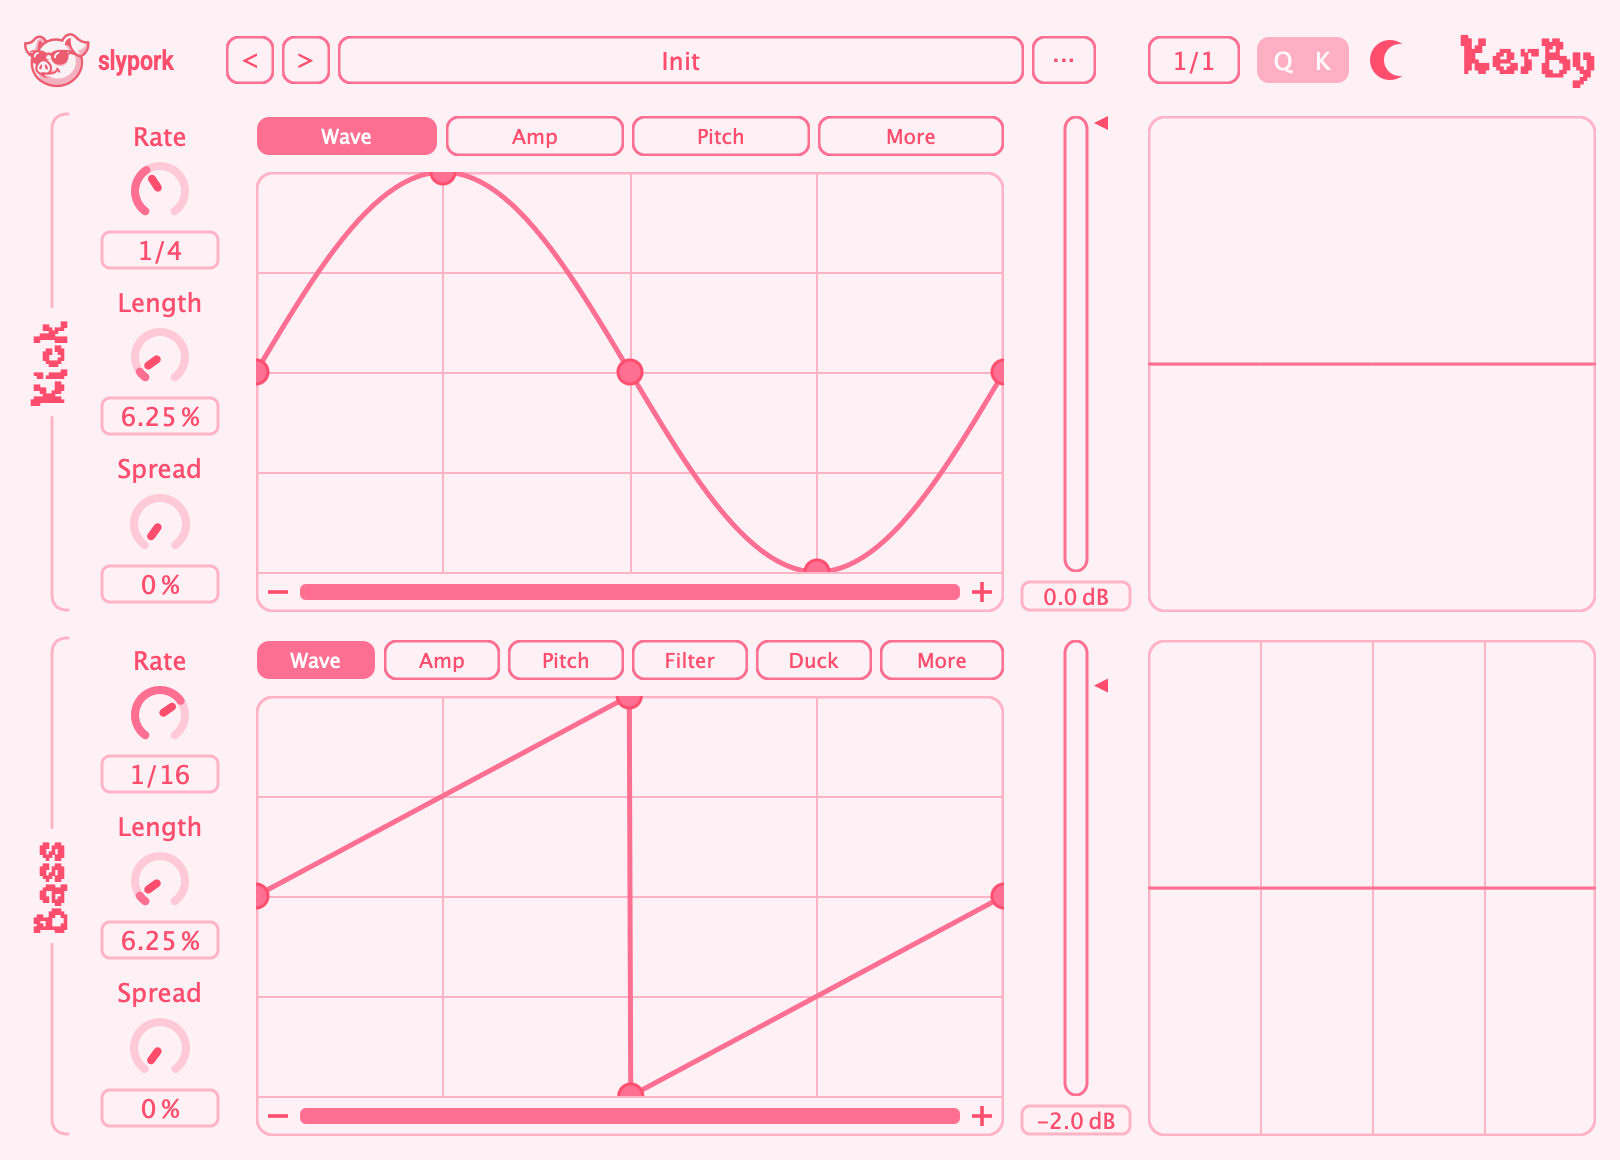
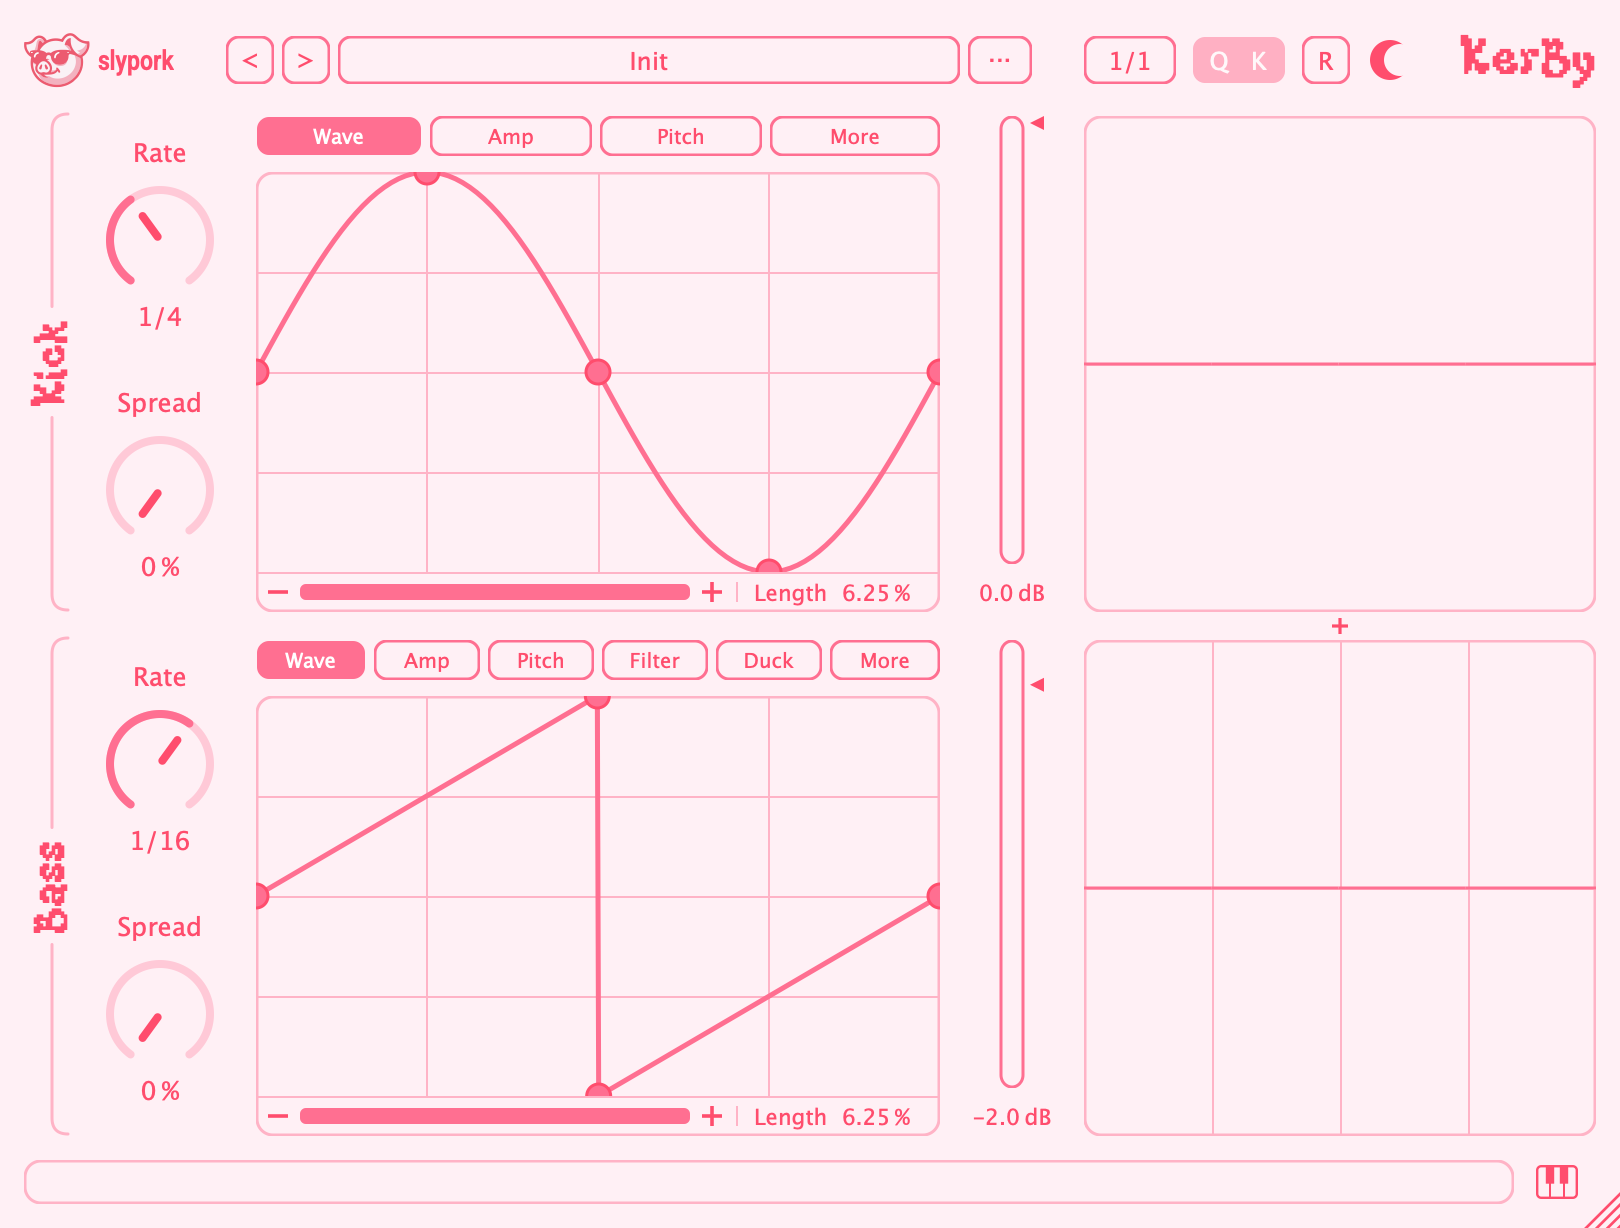
KerBy: bring the write-up and the screenshots up to the current build
The page had drifted from the plugin in three ways.

The duck was described as playing out over a fixed quarter note, which
BASS_DUCK_RATE makes false - it is now a note division you set, still its own
rather than the Kick's, which is what keeps it behaving the same at any Kick
rate. The Kick's reverb riding that same curve is stated too, since it is the
distinctive half of the reverb and costs a clause.

Rates can run free in Hz, which the clock paragraph didn't say. Reworded rather
than inserted, because "free-runs" was already spent on the Kick-restart clause
in the same sentence.

A fifth "How it works" row covers the wheels and R, which is the through-line of
everything added since the write-up - the page otherwise reads as a strictly
synced generator. The tempo wheel is described as a gesture control for stumbles
and glitches, not as a way to play half time, which is what the Rate knob is
for. The half-time claim would also have needed a Quantize qualifier it didn't
have.

The screenshots were from an August 4th build: no bottom bar, no keyboard, no
wheels, no R, no combined-scope +, and Length still in the knob column, so the
main visual contradicted the copy beside it. They are now generated by
scripts/screenshots.sh in the plugin repo, which release.sh runs on every drop,
so this is the last time they are updated by hand. The <img> dimensions follow
the editor's design size at 2x (1620x1228, up from 1620x1160 before the bottom
[…]

diff --git a/kerby/index.html b/kerby/index.html
@@ -81,7 +81,7 @@
                 <div class="visual-container" id="visualContainer">
                     <div class="mx-2 md:mx-4 my-4 md:my-8">
                         <p class="text-lg font-light">
-                            KerBy is a one-stop shop for kick and bass generation I've been building. Two voices, with
+                            KerBy is a one-stop shop for kick and bass synthesis I've been building. Two voices, with
                             an opinion about how they relate: the Kick is the backbone, the Bass gets ducked out of its
                             way, and neither ends up off the grid unless you ask it to. It's set up for kicks and
                             basslines, but can be used for much more.
@@ -102,11 +102,11 @@
             </article>
             <section class="visual-container-bottom" id="kerbyDetail">
                 <div class="mx-2 md:mx-4 my-4 md:my-8">
-                    <img src="../assets/images/software/KerBy_lightmode.png" width="1620" height="1160"
-                        alt="The KerBy plugin window: a Kick row above a Bass row, each with Rate, Length and Spread knobs, envelope tabs, a freeform curve editor, a level fader and a bar-synced scope."
+                    <img src="../assets/images/software/KerBy_lightmode.png" width="1620" height="1228"
+                        alt="The KerBy plugin window: a Kick row above a Bass row, each with Rate and Spread knobs, envelope tabs, a freeform curve editor showing its drawn waveform, a level fader and a bar-synced scope."
                         class="dark:hidden w-full rounded-xl border border-kerbyPink modal-trigger cursor-pointer">
-                    <img src="../assets/images/software/KerBy_darkmode.png" width="1620" height="1159" loading="lazy"
-                        alt="The KerBy plugin window in its dark theme: a Kick row above a Bass row, each with Rate, Length and Spread knobs, envelope tabs, a freeform curve editor, a level fader and a bar-synced scope."
+                    <img src="../assets/images/software/KerBy_darkmode.png" width="1620" height="1228" loading="lazy"
+                        alt="The KerBy plugin window in its dark theme: a Kick row above a Bass row, each with Rate and Spread knobs, envelope tabs, a freeform curve editor showing its drawn waveform, a level fader and a bar-synced scope."
                         class="hidden dark:block w-full rounded-xl border border-kerbyDarkAccent modal-trigger cursor-pointer">
 
                     <h2 class="text-xl pt-8">How it works:</h2>
@@ -114,9 +114,10 @@
                         <div class="pt-4 flex flex-col fig-row:flex-row fig-row:items-center gap-3 fig-row:gap-6">
                             <p class="fig-row:flex-1">
                                 <span class="text-kerbyRed dark:text-kerbyDarkText">Two voices, one clock.</span>
-                                Each runs at its own division, and the Bass restarts on every Kick pulse so the two
-                                read as one figure — switch that off and it free-runs. Clip length counts too: a dotted
-                                Kick under a one-bar clip resets each bar instead of drifting across them.
+                                Each runs at its own rate — a note division, or free in Hz — and the Bass restarts
+                                on every Kick pulse so the two read as one figure. Switch that off for a polyrhythm.
+                                Clip length counts too: a dotted Kick under a one-bar clip resets each bar instead of
+                                drifting across them.
                             </p>
                             <svg class="kerby-fig w-full fig-row:w-72 fig-row:shrink-0" viewBox="0 0 320 150"
                                 aria-hidden="true">
@@ -164,9 +165,10 @@
                             <p class="fig-row:flex-1">
                                 <span class="text-kerbyRed dark:text-kerbyDarkText">The Bass is ducked by the
                                     Kick.</span>
-                                The duck is a curve you draw, applied over a fixed quarter note after each Kick pulse,
-                                so
-                                it behaves the same at any Kick rate. A Duck amount takes it from off to full.
+                                The duck is a curve you draw, played out after each Kick pulse over a note
+                                division you set — its own, not the Kick's, so it behaves the same at any Kick rate.
+                                A Duck amount takes it from off to full. The Kick's reverb rides the same curve, so
+                                the tail pumps with it.
                             </p>
                             <svg class="kerby-fig w-full fig-row:w-72 fig-row:shrink-0 fig-row:order-first"
                                 viewBox="0 0 320 150" aria-hidden="true">
@@ -252,6 +254,43 @@
                                 <circle cx="230" cy="75" r="6" fill="var(--kerby-strong)" />
                             </svg>
                         </div>
+                        <div class="pt-6 flex flex-col fig-row:flex-row fig-row:items-center gap-3 fig-row:gap-6">
+                            <p class="fig-row:flex-1">
+                                <span class="text-kerbyRed dark:text-kerbyDarkText">Made to be played.</span>
+                                The keyboard has a wheel at each end — one bends the pitch, the other bends the clock.
+                                Bend the clock mid-phrase for a stumble or a glitch, and with Quantize on, letting
+                                go walks the pattern back onto the grid. <strong>R</strong> plays the output backwards,
+                                a Kick period at a time, and both wheels take an automation lane or a hardware knob.
+                            </p>
+                            <svg class="kerby-fig w-full fig-row:w-72 fig-row:shrink-0" viewBox="0 0 320 150"
+                                aria-hidden="true">
+                                <rect x="1" y="1" width="318" height="148" rx="10" fill="var(--kerby-panel)"
+                                    stroke="var(--kerby-accent)" stroke-width="1" />
+                                <!-- the host's grid -->
+                                <g stroke="var(--kerby-grid)" stroke-width="1">
+                                    <line x1="20" y1="20" x2="20" y2="130" />
+                                    <line x1="90" y1="20" x2="90" y2="130" />
+                                    <line x1="160" y1="20" x2="160" y2="130" />
+                                    <line x1="230" y1="20" x2="230" y2="130" />
+                                    <line x1="300" y1="20" x2="300" y2="130" />
+                                </g>
+                                <!-- on the grid, and then bent off it as the wheel goes down -->
+                                <g fill="var(--kerby-accent)">
+                                    <rect x="18" y="30" width="4" height="32" rx="2" />
+                                    <rect x="88" y="30" width="4" height="32" rx="2" />
+                                    <rect x="158" y="30" width="4" height="32" rx="2" />
+                                    <rect x="228" y="30" width="4" height="32" rx="2" />
+                                    <rect x="298" y="30" width="4" height="32" rx="2" />
+                                </g>
+                                <g fill="var(--kerby-strong)">
+                                    <rect x="18" y="88" width="4" height="32" rx="2" />
+                                    <rect x="74" y="88" width="4" height="32" rx="2" />
+                                    <rect x="138" y="88" width="4" height="32" rx="2" />
+                                    <rect x="210" y="88" width="4" height="32" rx="2" />
+                                    <rect x="298" y="88" width="4" height="32" rx="2" />
+                                </g>
+                            </svg>
+                        </div>
                     </div>
 
                     <h2 class="text-xl pt-8">Where it's at:</h2>
@@ -284,56 +323,82 @@
                          never the attribute. -->
                     <!-- data-kerby-changelog:start -->
                     <div class="text-lg font-light">
-                        <h3 class="text-lg pt-4"><span class="text-kerbyRed dark:text-kerbyDarkText">v0.3.0</span><span class="text-base opacity-75"> &middot; 2026-08-18</span></h3>
+                        <h3 class="text-lg pt-4"><span class="text-kerbyRed dark:text-kerbyDarkText">v0.3.0</span><span
+                                class="text-base opacity-75"> &middot; 2026-08-18</span></h3>
                         <h4 class="text-base pt-3 opacity-75">Added</h4>
                         <ul class="list-disc pl-5 pt-1 space-y-2">
-                            <li><strong>A tempo wheel</strong>, at the right-hand end of the keyboard. Right-click for range.</li>
-                            <li><strong>Reverb on the Kick</strong> — Amt, LP and Size on its More tab, ducked by the Bass's Sidechain curve.</li>
-                            <li><strong>Reverse</strong>, the new <strong>R</strong> in the header. It records one Kick rate period and plays it back reversed.</li>
-                            <li><strong>MIDI output — one short note per Kick pulse</strong>, for sidechaining anything to the Kick. In Live this is VST3 only; other DAWs untested.</li>
-                            <li><strong>A combined scope.</strong> The <strong>+</strong> between the two scopes merges them into one panel showing the summed output.</li>
-                            <li><strong>The pitch and tempo wheels can be automated or mapped to hardware.</strong> Map both to one macro for a tape stop.</li>
+                            <li><strong>A tempo wheel</strong>, at the right-hand end of the keyboard. Right-click for
+                                range.</li>
+                            <li><strong>Reverb on the Kick</strong> — Amt, LP and Size on its More tab, ducked by the
+                                Bass's Sidechain curve.</li>
+                            <li><strong>Reverse</strong>, the new <strong>R</strong> in the header. It records one Kick
+                                rate period and plays it back reversed.</li>
+                            <li><strong>MIDI output — one short note per Kick pulse</strong>, for sidechaining anything
+                                to the Kick. In Live this is VST3 only; other DAWs untested.</li>
+                            <li><strong>A combined scope.</strong> The <strong>+</strong> between the two scopes merges
+                                them into one panel showing the summed output.</li>
+                            <li><strong>The pitch and tempo wheels can be automated or mapped to hardware.</strong> Map
+                                both to one macro for a tape stop.</li>
                         </ul>
                         <h4 class="text-base pt-3 opacity-75">Changed</h4>
                         <ul class="list-disc pl-5 pt-1 space-y-2">
-                            <li><strong>The scope gridlines sit on real pulses</strong>, which fixes dotted rates and unquantized notes. With Restart on Kick on, the Bass's lines start again on each Kick pulse, so you can see what it's doing.</li>
-                            <li><strong>The Wave tab dims the part of the cycle a pulse never reaches</strong> — a low note under a fast Rate doesn't get all the way round the drawn waveform.</li>
-                            <li><strong>Muting the Bass no longer greys out its Duck tab</strong> while that curve is still shaping the Kick's reverb.</li>
+                            <li><strong>The scope gridlines sit on real pulses</strong>, which fixes dotted rates and
+                                unquantized notes. With Restart on Kick on, the Bass's lines start again on each Kick
+                                pulse, so you can see what it's doing.</li>
+                            <li><strong>The Wave tab dims the part of the cycle a pulse never reaches</strong> — a low
+                                note under a fast Rate doesn't get all the way round the drawn waveform.</li>
+                            <li><strong>Muting the Bass no longer greys out its Duck tab</strong> while that curve is
+                                still shaping the Kick's reverb.</li>
                             <li><strong>A level meter's clipping cap grows with the overshoot.</strong></li>
-                            <li><strong>The logo button lists every shortcut and mouse gesture in the plugin.</strong></li>
+                            <li><strong>The logo button lists every shortcut and mouse gesture in the plugin.</strong>
+                            </li>
                             <li><strong>The scope grows with the window.</strong></li>
                         </ul>
                         <h4 class="text-base pt-3 opacity-75">Fixed</h4>
                         <ul class="list-disc pl-5 pt-1 space-y-2">
-                            <li><strong>Hovering an envelope point takes the same colour as hovering a line.</strong></li>
+                            <li><strong>Hovering an envelope point takes the same colour as hovering a line.</strong>
+                            </li>
                         </ul>
                         <details class="pt-6">
                             <summary class="text-base font-light cursor-pointer">Earlier versions</summary>
-                            <h3 class="text-lg pt-4"><span class="text-kerbyRed dark:text-kerbyDarkText">v0.2.1</span><span class="text-base opacity-75"> &middot; 2026-08-13</span></h3>
+                            <h3 class="text-lg pt-4"><span
+                                    class="text-kerbyRed dark:text-kerbyDarkText">v0.2.1</span><span
+                                    class="text-base opacity-75"> &middot; 2026-08-13</span></h3>
                             <h4 class="text-base pt-3 opacity-75">Added</h4>
                             <ul class="list-disc pl-5 pt-1 space-y-2">
-                                <li><strong>Free-running rate.</strong> Each voice's Rate can run in Hz instead of a note division — right-click the Rate knob to switch.</li>
+                                <li><strong>Free-running rate.</strong> Each voice's Rate can run in Hz instead of a
+                                    note division — right-click the Rate knob to switch.</li>
                             </ul>
-                            <h3 class="text-lg pt-4"><span class="text-kerbyRed dark:text-kerbyDarkText">v0.2.0</span><span class="text-base opacity-75"> &middot; 2026-08-13</span></h3>
+                            <h3 class="text-lg pt-4"><span
+                                    class="text-kerbyRed dark:text-kerbyDarkText">v0.2.0</span><span
+                                    class="text-base opacity-75"> &middot; 2026-08-13</span></h3>
                             <h4 class="text-base pt-3 opacity-75">Added</h4>
                             <ul class="list-disc pl-5 pt-1 space-y-2">
-                                <li><strong>An on-screen keyboard, with a pitch wheel.</strong> Pitch bend from the host or a hardware wheel works now too.</li>
+                                <li><strong>An on-screen keyboard, with a pitch wheel.</strong> Pitch bend from the host
+                                    or a hardware wheel works now too.</li>
                                 <li><strong>A bottom bar, and a tooltip on every control.</strong></li>
-                                <li><strong>Bend, on the Bass</strong> — a continuous pitch offset, on its More tab.</li>
-                                <li><strong>Interface scale</strong>, 75–200%. Right-click the background or the resize corner.</li>
+                                <li><strong>Bend, on the Bass</strong> — a continuous pitch offset, on its More tab.
+                                </li>
+                                <li><strong>Interface scale</strong>, 75–200%. Right-click the background or the resize
+                                    corner.</li>
                             </ul>
                             <h4 class="text-base pt-3 opacity-75">Changed</h4>
                             <ul class="list-disc pl-5 pt-1 space-y-2">
-                                <li><strong>Dragging the window bigger grows the shape editor</strong>, rather than magnifying everything. Double-click the resize corner to reset it.</li>
-                                <li><strong>Value boxes are typeable and draggable.</strong> Hold Cmd to fine-adjust, double-click to reset.</li>
-                                <li><strong>Length moved</strong> out of the knob column onto the shape editor's control strip.</li>
+                                <li><strong>Dragging the window bigger grows the shape editor</strong>, rather than
+                                    magnifying everything. Double-click the resize corner to reset it.</li>
+                                <li><strong>Value boxes are typeable and draggable.</strong> Hold Cmd to fine-adjust,
+                                    double-click to reset.</li>
+                                <li><strong>Length moved</strong> out of the knob column onto the shape editor's control
+                                    strip.</li>
                                 <li><strong>Dragging a knob hides and pins the cursor.</strong></li>
                             </ul>
                             <h4 class="text-base pt-3 opacity-75">Fixed</h4>
                             <ul class="list-disc pl-5 pt-1 space-y-2">
                                 <li><strong>Resonance self-oscillated slightly off-pitch.</strong></li>
                             </ul>
-                            <h3 class="text-lg pt-4"><span class="text-kerbyRed dark:text-kerbyDarkText">v0.1.x</span><span class="text-base opacity-75"> &middot; August 2026</span></h3>
+                            <h3 class="text-lg pt-4"><span
+                                    class="text-kerbyRed dark:text-kerbyDarkText">v0.1.x</span><span
+                                    class="text-base opacity-75"> &middot; August 2026</span></h3>
                             <h4 class="text-base pt-3 opacity-75">Notes</h4>
                             <ul class="list-disc pl-5 pt-1 space-y-2">
                                 <li><strong>The first tester drops</strong>, before this changelog existed.</li>
